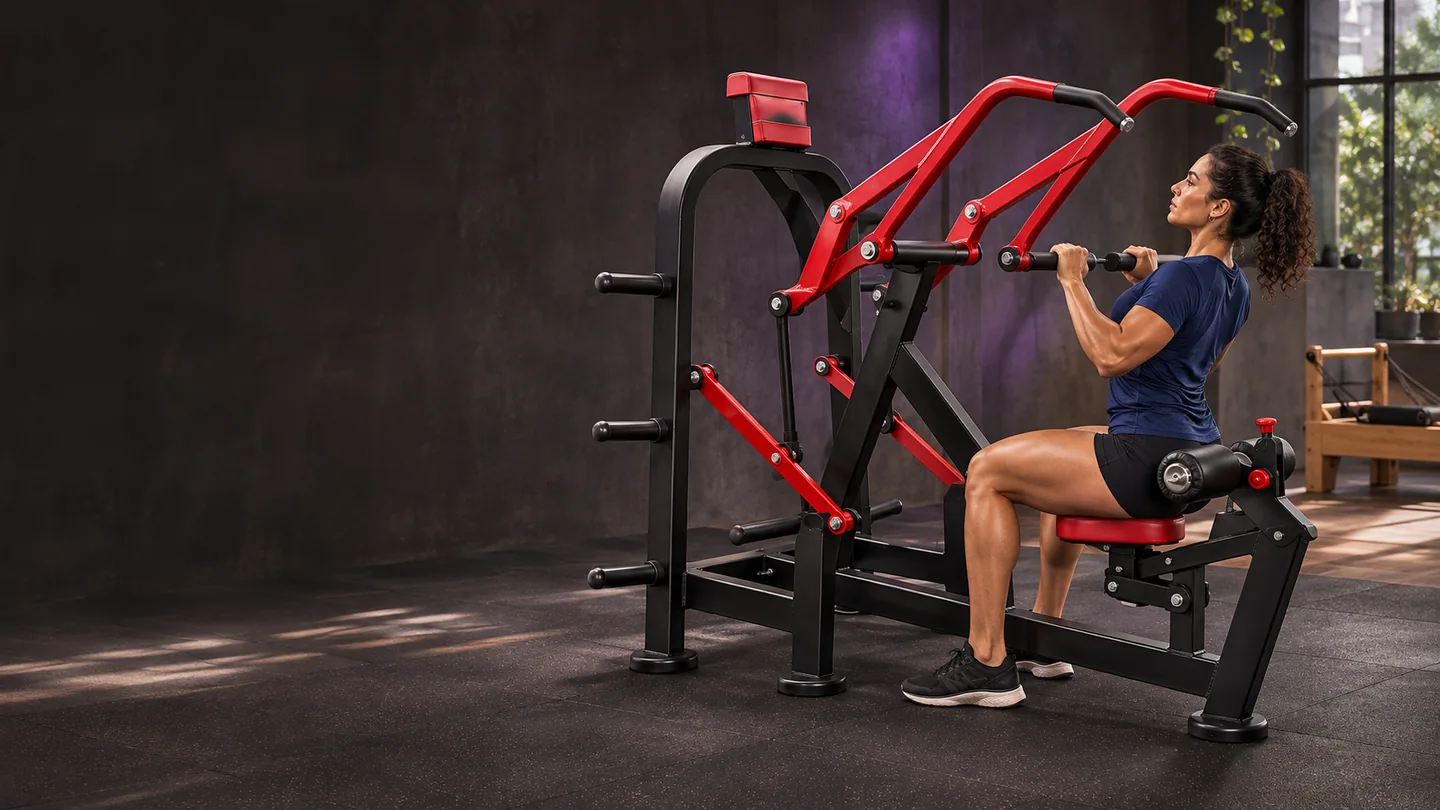
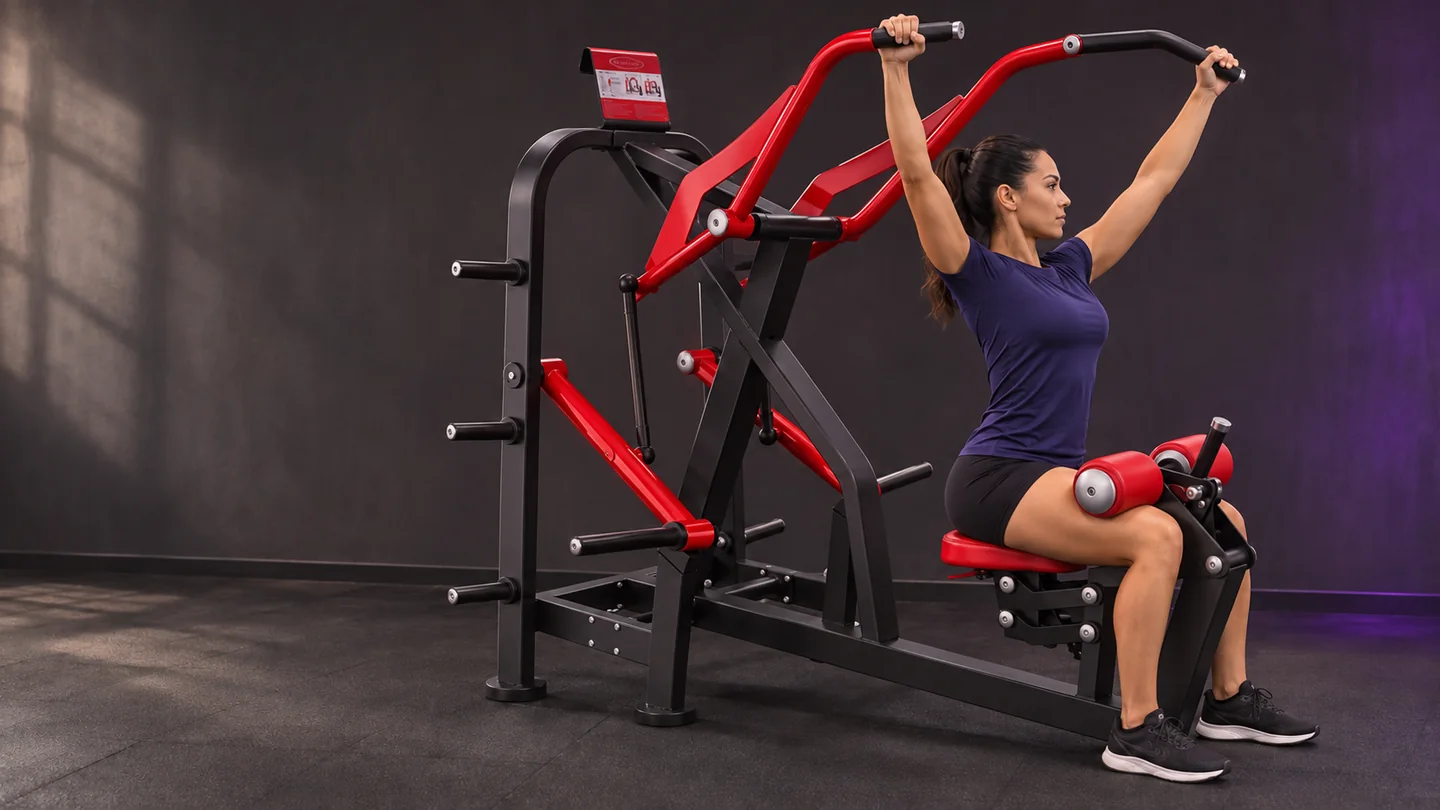
Corrige pegadas, apoios e modelos nas capas das séries Torque Fitness

diff --git a/js/site.js b/js/site.js
@@ -227,6 +227,7 @@
   }
   function countSerie(s) { return PRODUCTS.filter(p => (p.serie || 'Geral') === s).length; }
 
+  const seriesImageVersion = '20261122c';
   const seriesTrainingDescriptions = new Map([
     ['a5-series', 'Atleta fazendo desenvolvimento de ombros no A503'],
     ['a7-series', 'Atleta fazendo remada baixa no A704'],
@@ -237,11 +238,11 @@
     ['hy-series', 'Atleta realizando uma série no leg press HY56'],
     ['k1-series', 'Atleta fazendo extensão de joelhos no K101'],
     ['k3-series', 'Atleta fazendo desenvolvimento de ombros no K373'],
-    ['k5-series', 'Atleta fazendo remada com apoio no peito no K575'],
+    ['k5-series', 'Atleta fazendo elevação pélvica na máquina K560'],
     ['k6-series', 'Atleta fazendo extensão de joelhos na extensora K602'],
     ['k8-series', 'Atleta fazendo desenvolvimento de ombros no K806'],
     ['l-series', 'Atleta fazendo crucifixo em pé nas polias do L1017'],
-    ['p-series', 'Atleta fazendo elevação pélvica no P812A'],
+    ['p-series', 'Atleta treinando no leg press P856'],
     ['pilates', 'Atleta deitada, pressionando a plataforma com os pés no reformer SYT-PL30'],
     ['sq-f-series', 'Atleta fazendo agachamento na barra guiada do SQ7010']
   ]);
@@ -262,7 +263,7 @@
     $('#seriesGrid').innerHTML = series().map(s => {
       const slug = coveredSeriesSlug(s);
       const cover = slug
-        ? `<img class="scard__cover" src="assets/series/${slug}.webp" alt="" width="960" height="512" loading="lazy" decoding="async">`
+        ? `<img class="scard__cover" src="assets/series/${slug}.webp?v=${seriesImageVersion}" alt="" width="960" height="512" loading="lazy" decoding="async">`
         : '';
       return `<button type="button" class="scard ${filterSerie === s ? 'active' : ''}" data-serie="${esc(s)}" aria-pressed="${filterSerie === s}">${cover}<b>${esc(s)}</b><span>${countSerie(s)} itens</span></button>`;
     }).join('');
@@ -765,7 +766,7 @@
     b.classList.toggle('catbanner--training', Boolean(showTraining));
     b.style.backgroundImage = showCustom ? `linear-gradient(to top, rgba(11,11,15,.86), rgba(11,11,15,.45)), url("${img}")` : '';
     b.innerHTML = `
-      ${showTraining ? `<img class="catbanner__training-image" src="assets/series-training/${slug}.webp" width="1440" height="810" alt="${seriesTrainingDescriptions.get(slug)}, da linha ${esc(nome)}." fetchpriority="high">` : ''}
+      ${showTraining ? `<img class="catbanner__training-image" src="assets/series-training/${slug}.webp?v=${seriesImageVersion}" width="1440" height="810" alt="${seriesTrainingDescriptions.get(slug)}, da linha ${esc(nome)}." fetchpriority="high">` : ''}
       ${!showCustom && !showTraining ? `<div class="catbanner__bg" aria-hidden="true">${plate}</div>` : ''}
       <div class="catbanner__inner">
         <nav class="catbanner__crumb"><a href="${BASE_URL}" data-serie="all">Início</a><span>›</span><b>${esc(nome)}</b></nav>

diff --git a/sw.js b/sw.js
@@ -6,13 +6,13 @@
    Chamadas externas (Supabase, CDN, fontes) passam direto pela rede.
    Suba o número da versão ao mudar a estratégia.
    ============================================================ */
-const CACHE = 'torque-app-v7-series-training';
+const CACHE = 'torque-app-v8-series-training';
 const SHELL = [
   './index.html',
   './css/site.css?v=20260718d',
   './css/premium.css?v=20261122b',
   './js/premium.js?v=20260905',
-  './js/site.js?v=20261122b',
+  './js/site.js?v=20261122c',
   './js/config.js?v=20260718d',
   './js/products.js?v=20260718d',
   './js/nomes.js?v=20260718d',

diff --git a/index.html b/index.html
@@ -489,7 +489,7 @@
   <script src="js/products.js?v=20260718d"></script>
   <script src="js/nomes.js?v=20260718d"></script>
   <script src="js/descricoes.js?v=20260718d"></script>
-  <script src="js/site.js?v=20261122b"></script>
+  <script src="js/site.js?v=20261122c"></script>
   <script src="js/premium.js?v=20260905" defer></script>
   <noscript><p class="tf-noscript">Ative o JavaScript para buscar equipamentos e montar seu orçamento. As informações da marca continuam disponíveis na página <a href="sobre.html">Sobre a Torque Fitness</a>.</p></noscript>
 </body>
